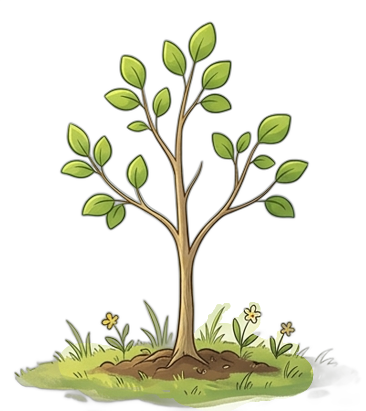
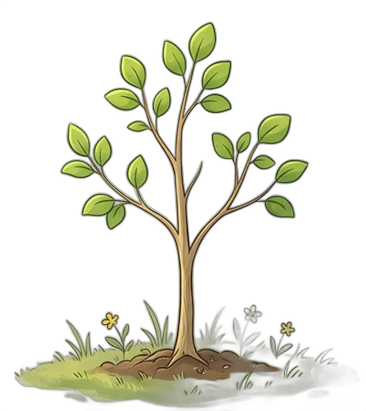
fix: タイマー円完了後に画面遷移・iPhone日付入力overflow修正・small.png更新
- タイマー円アニメーション(1s)完了後に画面遷移するよう1100ms遅延
- iPhone日付入力(試験日/いつから/いつまで)のoverflowをdate-field-wrapで修正
- small.png画像を差し替え

Changed region(s): [[0.4208, 0.7299, 0.8716, 0.9927], [0.1503, 0.8175, 0.3306, 0.8759]]

diff --git a/index.html b/index.html
@@ -34,12 +34,14 @@
     /* iPhoneで日付入力がはみ出す対策（PC版は影響なし） */
     @media (max-width: 480px) {
       input[type="date"] {
-        max-width: 100%;
-        min-width: 0;
-        font-size: 13px;
-        padding-left: 6px;
-        padding-right: 6px;
+        width: 100% !important;
+        max-width: 100% !important;
+        min-width: 0 !important;
+        font-size: 12px !important;
+        padding: 6px !important;
+        box-sizing: border-box !important;
       }
+      .date-field-wrap { overflow: hidden; }
     }
     /* 横向き対策 */
     #landscape-block { display: none; }
@@ -363,16 +365,17 @@
       };
 
       useEffect(() => {
-        // 初期値(0)の状態で画面が切り替わるバグを防ぐため、timerTotal > 0をガードに追加
         let timerId;
+        let finishId;
         if (currentScreen === 'timer' && !isDead && timerTotal > 0 && timeLeft > 0) {
           timerId = setInterval(() => {
             setTimeLeft(prev => prev - 1);
           }, 1000);
         } else if (currentScreen === 'timer' && !isDead && timerTotal > 0 && timeLeft === 0) {
-          handleFinishTimer();
+          // 円アニメーション(1s)が完了してから画面遷移
+          finishId = setTimeout(() => handleFinishTimer(), 1100);
         }
-        return () => clearInterval(timerId);
+        return () => { clearInterval(timerId); clearTimeout(finishId); };
       }, [currentScreen, timeLeft, isDead, timerTotal]);
 
       const changeDate = (offset) => {
@@ -450,11 +453,11 @@
                 className="w-full p-2.5 rounded-xl border border-slate-200 bg-slate-50 text-sm focus:ring-2 focus:ring-emerald-500"
               />
               <div className="flex flex-col gap-3 mt-2">
-                <div>
+                <div className="date-field-wrap">
                   <label className="block text-xs font-bold text-slate-700 flex items-center gap-1 mb-1">
                     <span className="text-sm">📅</span>試験日
                   </label>
-                  <input 
+                  <input
                     type="date" value={examDate} onChange={(e) => setExamDate(e.target.value)}
                     className="w-full p-2.5 rounded-xl border border-slate-200 bg-slate-50 text-sm focus:ring-2 focus:ring-emerald-500"
                   />
@@ -490,11 +493,11 @@
                 <input type="text" placeholder="例: 鉄壁 1セクション" value={formTaskName} onChange={e => setFormTaskName(e.target.value)} className="w-full p-2 text-sm rounded-lg border border-slate-200" />
               </div>
               <div className="flex flex-col gap-2">
-                <div>
+                <div className="date-field-wrap">
                   <label className="text-xs font-bold text-slate-600 mb-1 block">いつから？</label>
                   <input type="date" value={formStartDate} onChange={e => setFormStartDate(e.target.value)} className="w-full p-2 text-sm rounded-lg border border-slate-200 box-border" />
                 </div>
-                <div>
+                <div className="date-field-wrap">
                   <label className="text-xs font-bold text-slate-600 mb-1 block">いつまで？</label>
                   <input type="date" value={formDeadline} onChange={e => setFormDeadline(e.target.value)} className="w-full p-2 text-sm rounded-lg border border-slate-200 box-border" />
                 </div>
